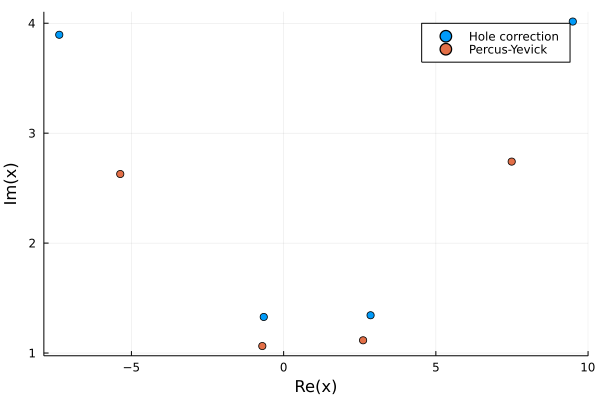
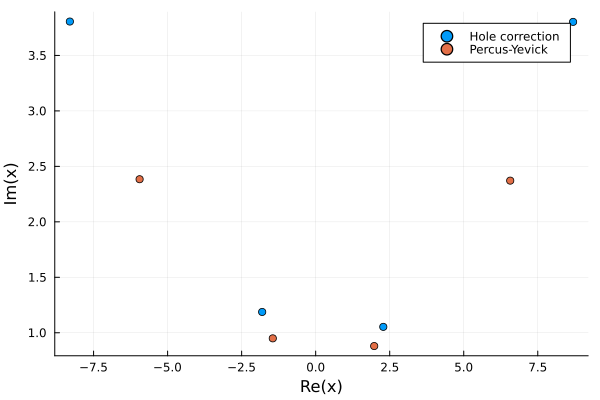
add reflection to docs pair correlation example

diff --git a/docs/src/manual/pair-correlation.md b/docs/src/manual/pair-correlation.md
@@ -12,7 +12,7 @@ medium = Acoustic(3; ρ=1.2, c=1.0)
 # Choose the species
 r = 0.5
 s = Specie(
-    Acoustic(3; ρ = 0.01, c = 0.01),
+    Acoustic(3; ρ = 0.1, c = 0.1),
     Sphere(r),
     volume_fraction = 0.3,
     exclusion_distance = 1.01
@@ -31,7 +31,7 @@ micro = Microstructure(s, pair_type);
 
 # output
 ```
-and we can plot the result
+and we can plot the result (needs the packages Plots and Image)
 ```julia
 using Plots
 
@@ -47,35 +47,84 @@ which we can compare with Figure 8.3.1 from [1] below.
 
 Note that for $x < 1$ the two particles of radius 0.5 would overlap, so the pair correlation should be zero. Also note that `dp` is the variation from uncorrelated, which is why we add 1.0 to get the pair correlation.
 
-## Effective wavenumbers
+## Calculate an effective wavenumber
 
 The more points sampled within the pair correlation the longer it will take to calculate the effective wavenumber.
 
 First we calculate the wavenumbers with the simplest pair correlation (hole correction), and then compare the results with Percus-Yevick.
 
 ```jldoctest pair; output = false, filter = r".*"s
-ω = 1.2
 
 micro = Microstructure(s);
+
+ω = 0.4
 
 kps = wavenumbers(ω, medium, micro;
     basis_order = 1, num_wavenumbers = 4
 )
 
-pair_type = PercusYevick(3; rtol = 5e-2, maxsize=40)
+pair_type = PercusYevick(3; meshsize = 0.1, maxsize = 50)
 micro = Microstructure(s, pair_type);
 
 kps2 = wavenumbers(ω, medium, micro;
-    basis_order = 1, num_wavenumbers = 2
+    basis_order = 1, num_wavenumbers = 4
 )
+
+# output
+
+```
+we can then compare how the wavenumbers change with Percus-Yevick with a scatter plot
+```julia pair
+using Plots
+
+scatter(kps, lab = "Hole correction")
+scatter!(kps2, lab = "Percus-Yevick")
+
+```
+
+![../kps-PY-30-pair.png](../assets/kps-PY-30-pair.png)
+
+
+We can see that in this case, the effective wavenumbers with (`kps2`) and without (`kps`) Percus Yevick are quite different.
+
+## Calculate reflection
+To calculate the average reflection, or scattering, from a material is the same as before, except we just need to replace `Species` with `Microstructure`. For example to calculate reflection from a plate:
+```jldoctest pair; output = false, filter = r".*"s
+
+k_eff = kps2[1]
+
+normal = [0.0,0.0,-1.0] # an outward normal to both surfaces of the
+width = 150.0 # plate width
+origin = [0.0,0.0,width/2] # the centre of the plate
+
+plate = Plate(normal,width,origin)
+
+# note below we use micro instead of species
+material = Material(plate, micro)
+
+source = PlaneSource(medium, [0.0,0.0,-1.0])
+
+# Calculate the wavemode for the first wavenumber
+# the WaveMode function calculates the types of waves and solves the needed boundary conditions
+wavemodes = WaveMode(ω, k_eff, source, material; tol = 1e-6, basis_order = 1);
+
+RTeff = reflection_transmission_coefficients(wavemodes, source, material)
 
 # output
 
 
 ```
-![../kps-PY-30-pair.png](../assets/kps-PY-30-pair.png)
+We can compare the result of not using Percus-Yevick below.
+```jldoctest pair; output = false, filter = r".*"s
+k_eff = kps[1]
+micro = Microstructure(s);
+material = Material(plate, micro)
+wavemodes = WaveMode(ω, k_eff, source, material; tol = 1e-6, basis_order = 1);
 
-We can see that in this case, the effective wavenumbers with (`kps2`) and without (`kps`) Percus Yevick are similar.
+RTeff = reflection_transmission_coefficients(wavemodes, source, material)
+
+# output
+```
 
 ## References
 
